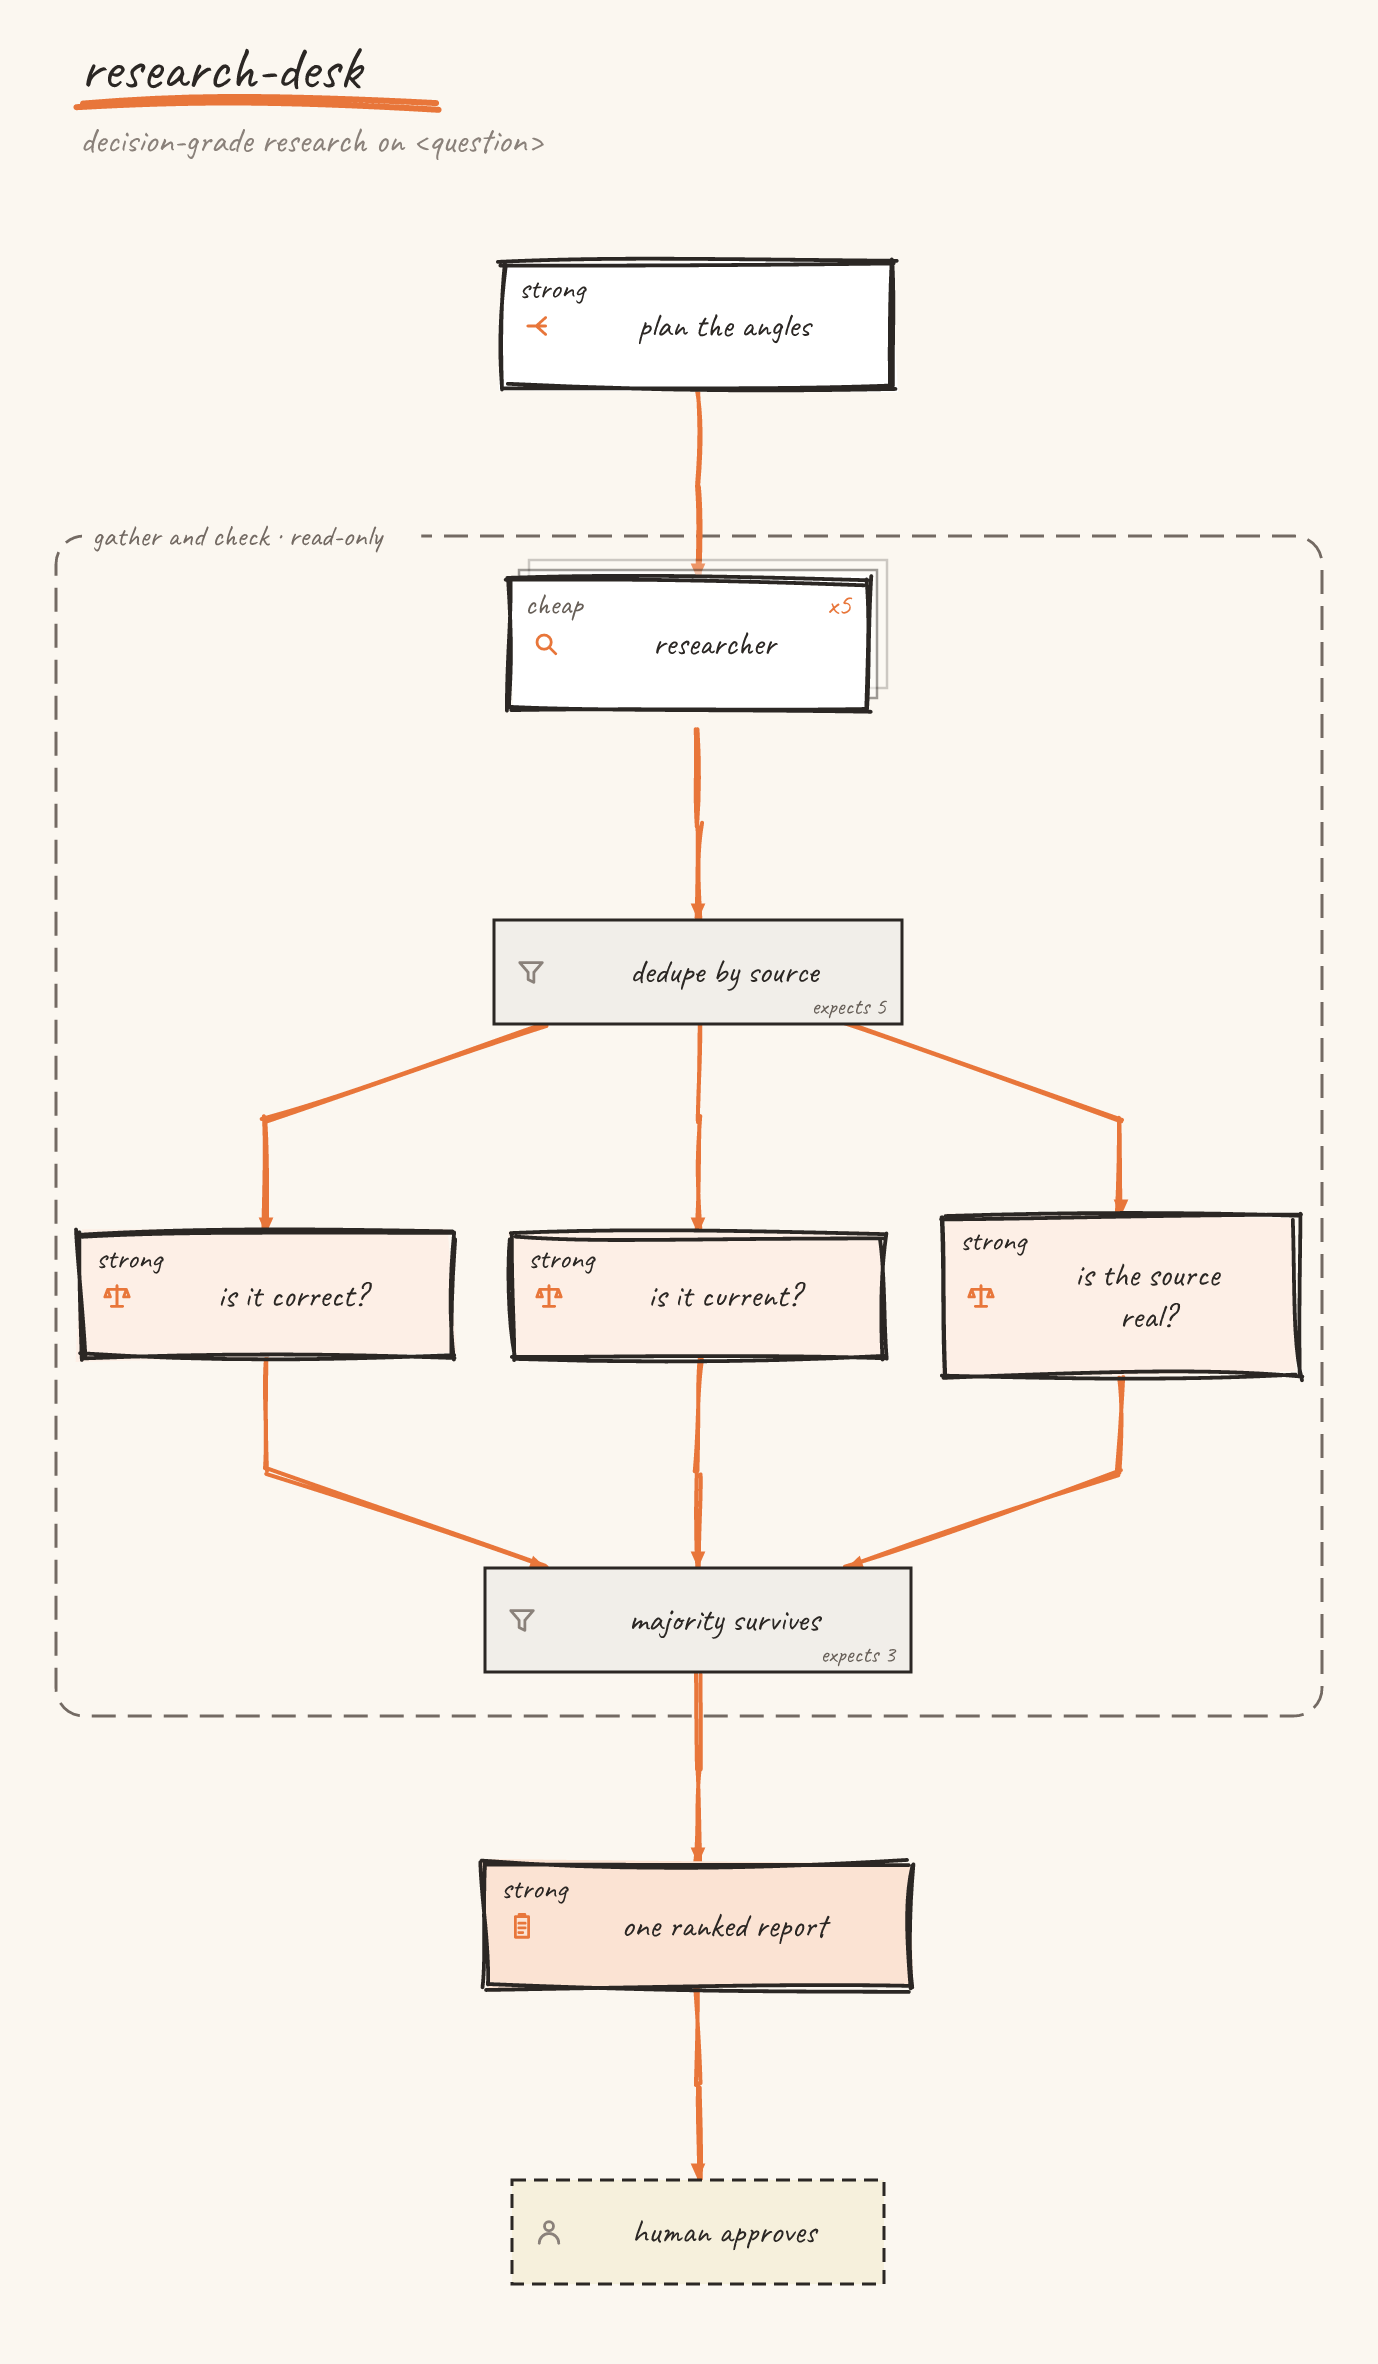
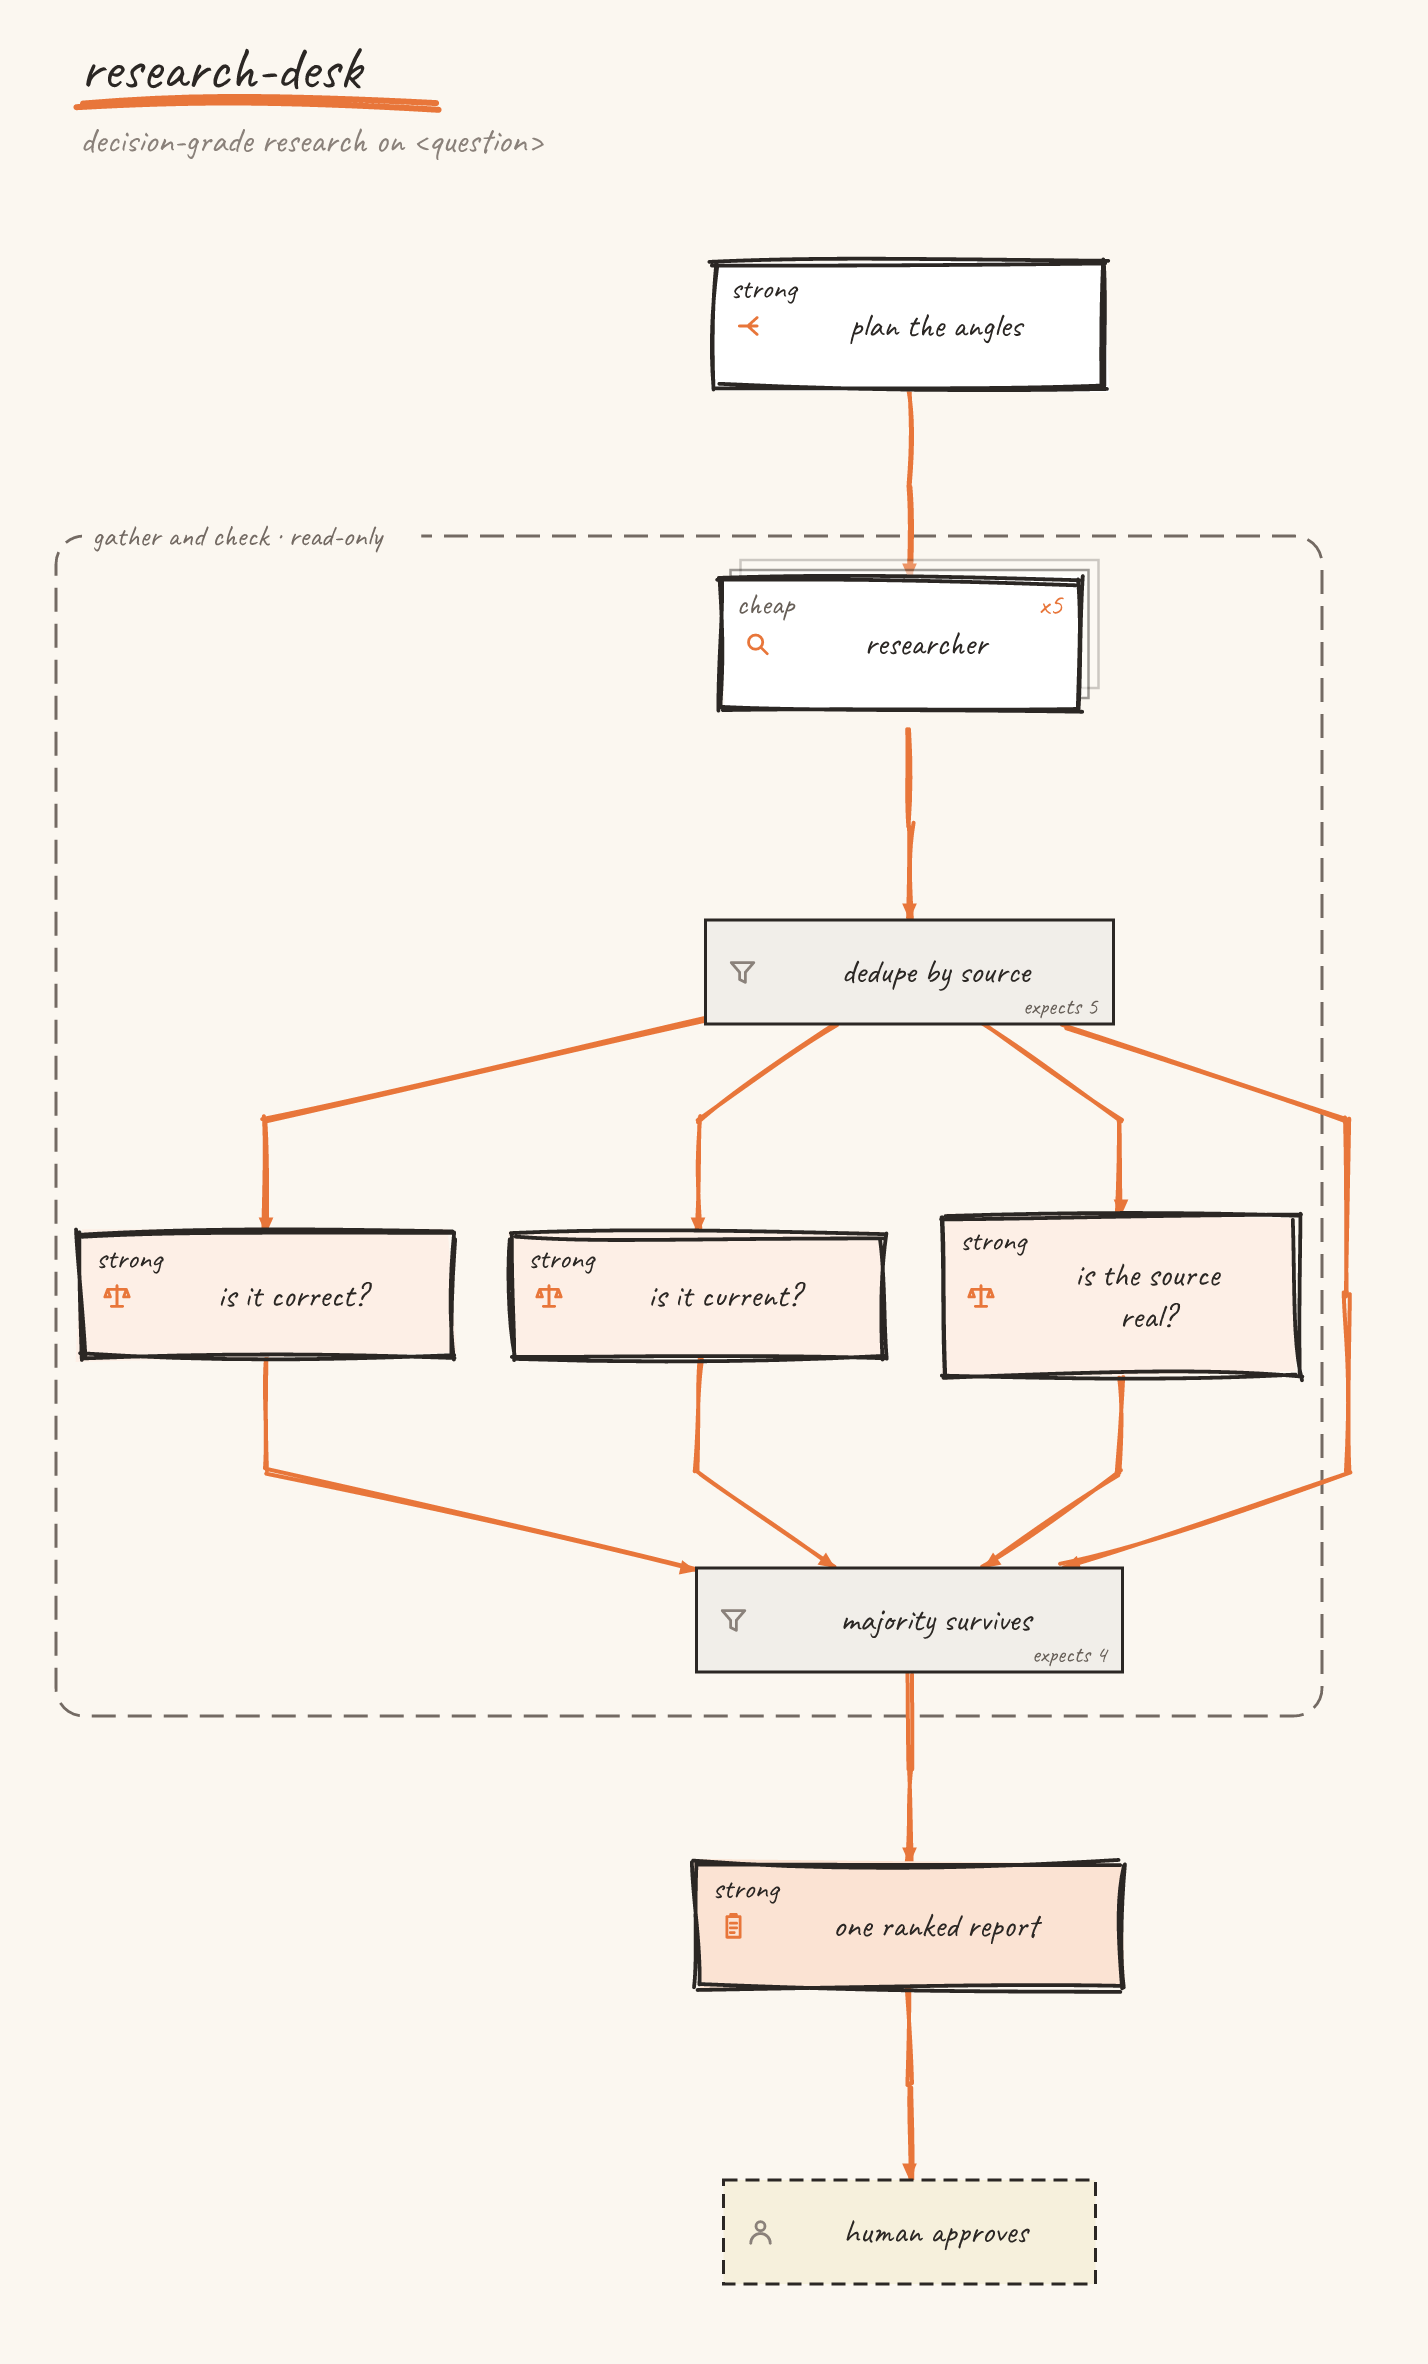
fix(examples) — research-desk's vote is handed the finding it passes on
vote passed on the finding that survived, but was handed only the three
votes. It now takes `finding` from dedupe on an edge of its own, with
expects: 4. The three lint variants change the same way and the docs
render is redrawn. Lint stays clean at 7 layers.

No rule for the class of mistake: a plain-code step whose outputs share no
name with its inputs fires on every one of the 51 such steps in the
repository, the fixed vote included. The README's edge guidance describes
it instead.

diff --git a/CHANGELOG.md b/CHANGELOG.md
@@ -7,6 +7,16 @@ private web canvas, which has its own train. Full notes accompany each
 
 ## Unreleased
 
+- `examples/research-desk.yaml` is honest about `vote`. It passed on the finding that survived,
+  but was handed only the three votes, with nothing to say what they were votes on. It now takes
+  `finding` from `dedupe` as well, on an edge of its own, and `expects: 4`. The three variants of
+  it under the linter's tests change the same way, and `docs/research-desk.svg` and its PNG are
+  redrawn with the new edge. The lint result is unchanged: clean, 7 layers.
+- No rule for it. A plain-code step whose outputs share no name with its inputs sounded narrow
+  enough to check, but tried against every spec in the repository it fires on all 51 such steps,
+  `vote` both before and after the fix among them, because renaming is what a step does. The
+  README's guidance on edges now describes the mistake instead.
+
 - A node can say it is urgent: `priority: urgent | high | normal`, and `prioritySetBy:` for who
   asked, one line of free text. Both optional, and `version` stays 1. It is a scheduling hint and
   not an edge: ranks, waves and every lint rule read the graph as they would without it.

diff --git a/README.md b/README.md
@@ -166,6 +166,16 @@ An edge is real when `carries` names fields that exist in the source's `out` **a
 `in`. If nothing survives that intersection, the edge is a wait with nothing behind it — and that is
 what `FAKE_EDGE` reports.
 
+What no rule checks is the other direction: whether a step's outputs could be made from what it is
+handed. Field names are free text, and a step that does real work renames things on the way
+through (`dedupe` turns `claim`, `source` and `date` into a `finding`), so an output named in no
+input is the normal case and proves nothing. Read each step's `out` against its `in` and ask where
+the data comes from. In `research-desk`, `vote` once received only the three votes and claimed to
+pass on the finding that survived them. Each edge it had was real, so nothing fired; the edge from
+`dedupe` carrying `finding` was simply missing, and easy to miss, because the path through the
+skeptics already ordered the two. A step that passes data on needs an edge from wherever that data
+was made, even when another path already makes it wait.
+
 ### Boundaries
 
 A boundary names a group of nodes that one constraint covers, so the constraint is said once rather
